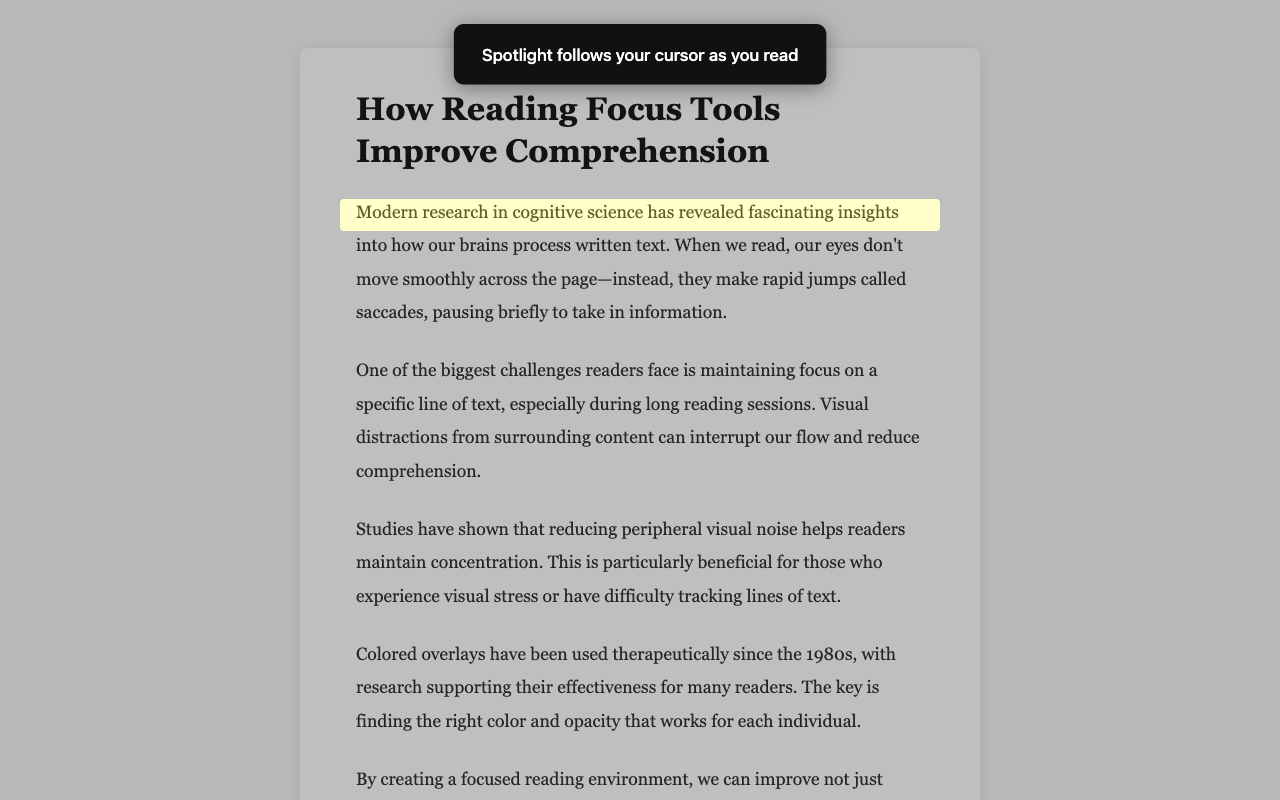
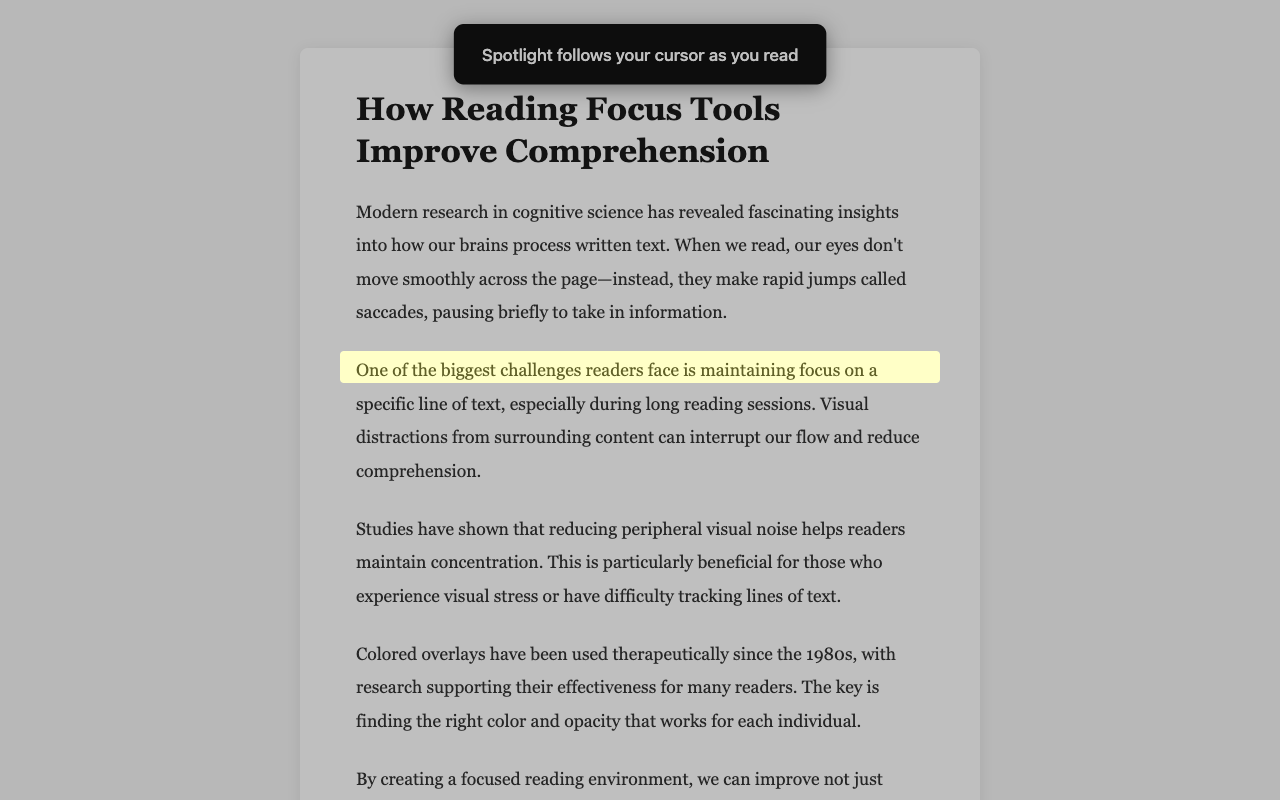
fix: Improve screenshot layout and positioning
- Use 2nd and 4th paragraphs to avoid annotation overlap
- Add annotation before positioning spotlight
- Full title now visible in screenshots

Changed region(s): [[0.25, 0.4375, 0.75, 0.5], [0.25, 0.25, 0.75, 0.3125], [0.375, 0.0625, 0.625, 0.0938]]

diff --git a/scripts/screenshots.ts b/scripts/screenshots.ts
@@ -67,16 +67,17 @@ const takeScreenshots = async () => {
   await page.goto('http://localhost:3456/demo.html');
   await page.waitForTimeout(3000);
 
-  const p1 = await page.locator('article p').first().boundingBox();
+  await addAnnotation(page, 'Spotlight follows your cursor as you read');
+
+  const p1 = await page.locator('article p').nth(1).boundingBox();
   if (p1) {
     const x = p1.x + p1.width / 2;
-    const y = p1.y + 20;
+    const y = p1.y + 14;
     await triggerMouseMove(page, x, y);
     await waitForSpotlight(page);
     await page.waitForTimeout(300);
   }
 
-  await addAnnotation(page, 'Spotlight follows your cursor as you read');
   await page.waitForTimeout(200);
   await page.screenshot({ path: join(outputDir, 'screenshot-1.png') });
   console.log('Saved: screenshot-1.png');
@@ -84,16 +85,17 @@ const takeScreenshots = async () => {
   await page.goto('http://localhost:3456/demo.html');
   await page.waitForTimeout(3000);
 
-  const p2 = await page.locator('article p').nth(2).boundingBox();
+  await addAnnotation(page, 'Toggle with ⌘ + Shift + S');
+
+  const p2 = await page.locator('article p').nth(3).boundingBox();
   if (p2) {
     const x = p2.x + p2.width / 2;
-    const y = p2.y + 20;
+    const y = p2.y + 14;
     await triggerMouseMove(page, x, y);
     await waitForSpotlight(page);
     await page.waitForTimeout(300);
   }
 
-  await addAnnotation(page, 'Toggle with ⌘ + Shift + S');
   await page.waitForTimeout(200);
   await page.screenshot({ path: join(outputDir, 'screenshot-2.png') });
   console.log('Saved: screenshot-2.png');
